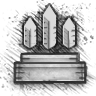
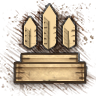
Applied MapMarker to StructureMarker

diff --git a/src/components/battle-map/map-display/StructureMarker.tsx b/src/components/battle-map/map-display/StructureMarker.tsx
@@ -1,10 +1,6 @@
-import { Marker } from 'react-leaflet';
-
 import useBattleMapStore, { StructureInfo } from '../../../hooks/useBattleMapStore';
-import useRefMarkerColor from '../../../hooks/useRefMarkerColor';
 import { STRUCTURES } from '../../../utils/constants';
-
-import './MapDisplay.scss';
+import MapMarker from '../../common/map-marker/MapMarker';
 
 type StructureMarkerProps = {
   structure: StructureInfo
@@ -12,16 +8,18 @@ type StructureMarkerProps = {
 
 function StructureMarker({ structure }: StructureMarkerProps) {
   const { intendedToDisplay, selectStructureForEdge, getTeam } = useBattleMapStore();
-  // Setting the filter over the marker
-  const markerRef = useRefMarkerColor(getTeam(structure.team)?.color ?? '#fff');
+  const structureInfo = STRUCTURES[structure.type];
 
   return (
-    <Marker
-      ref={markerRef}
-      icon={STRUCTURES[structure.type].icon}
-      position={intendedToDisplay(structure.coordinates)}
-      eventHandlers={{
-        click: () => selectStructureForEdge(structure.id),
+    <MapMarker
+      icon={structureInfo.icon}
+      iconSize={structureInfo.size}
+      iconColor={getTeam(structure.team)?.color ?? '#ffffff'}
+      markerProps={{
+        position: intendedToDisplay(structure.coordinates),
+        eventHandlers: {
+          click: () => selectStructureForEdge(structure.id),
+        },
       }}
     />
   );

diff --git a/src/utils/constants.ts b/src/utils/constants.ts
@@ -1,7 +1,4 @@
-import { HexColor } from '@hello-pangea/color-picker';
-import { Icon } from 'leaflet';
-
-import { DistancePenaltyMap, Point, StructureMap } from './types';
+import { DistancePenaltyMap, Point, StructureMap, HexColor } from './types';
 import ArkIcon from '../assets/ark-icon.png';
 import FortIcon from '../assets/fort-icon.png';
 import PortalIcon from '../assets/portal-icon.png';
@@ -43,23 +40,28 @@ export const DISTANCE_PENALTIES: DistancePenaltyMap = {
 export const STRUCTURES: StructureMap = {
   ARK: {
     name: 'Ark',
-    icon: new Icon({ iconUrl: ArkIcon, iconSize: [52, 40] }),
+    icon: ArkIcon,
+    size: [52, 40],
   },
   TOWER: {
     name: 'Tower',
-    icon: new Icon({ iconUrl: TowerIcon, iconSize: [40, 40] }),
+    icon: TowerIcon,
+    size: [40, 40],
   },
   PORTAL: {
     name: 'Portal',
-    icon: new Icon({ iconUrl: PortalIcon, iconSize: [40, 40] }),
+    icon: PortalIcon,
+    size: [40, 40],
   },
   RELIC: {
     name: 'Ancient Relic',
-    icon: new Icon({ iconUrl: RelicIcon, iconSize: [80, 80] }),
+    icon: RelicIcon,
+    size: [52, 60],
   },
   FORT: {
     name: 'Goblin Fort',
-    icon: new Icon({ iconUrl: FortIcon, iconSize: [60, 89] }),
+    icon: FortIcon,
+    size: [40, 60],
   },
 };
 

diff --git a/src/components/common/map-marker/MapMarker.tsx b/src/components/common/map-marker/MapMarker.tsx
@@ -42,9 +42,6 @@ function MapMarker({ icon, iconSize, iconColor, markerProps }: MapMarkerProps) {
       });
       const stack = new Stack([originalImage, colorOverlay]);
       const processedImage = stack.getMinImage();
-      console.log('RGB', red, green, blue);
-      console.log('OVERLAY', colorOverlay.toDataURL());
-      console.log('FINAL', processedImage.toDataURL());
       setImage(processedImage.toDataURL());
     };
     effect();

diff --git a/src/utils/types.ts b/src/utils/types.ts
@@ -1,5 +1,3 @@
-import { Icon } from 'leaflet';
-
 /*
  * For the purpose of "empty numbers" (missing input) we use Infinity to make type checking more
  * fluid.
@@ -43,7 +41,8 @@ export type DistancePenaltyMap = {
 
 export type Structure = {
   name: string;
-  icon: Icon;
+  icon: string;
+  size: [number, number]
 };
 
 export type StructureMap = {
